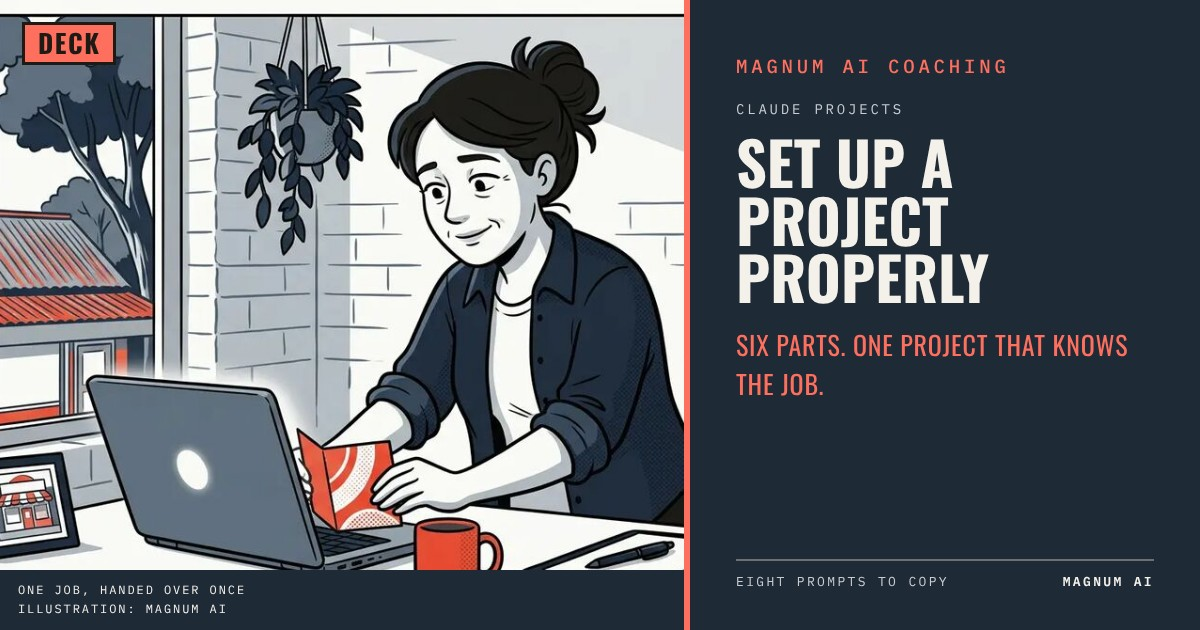
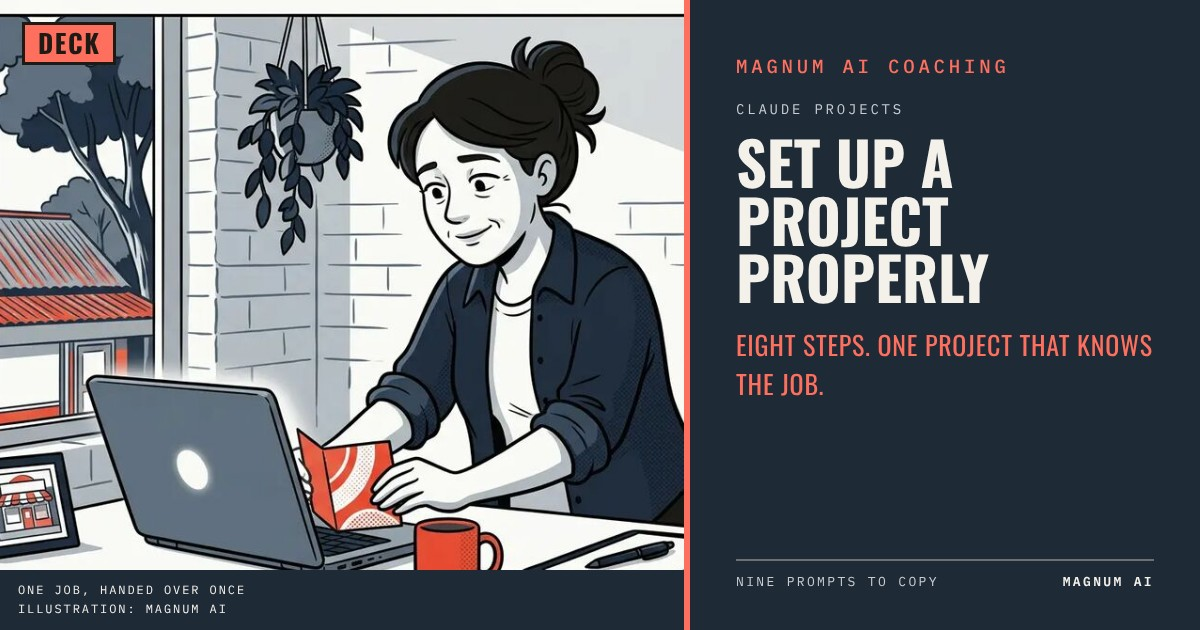
Projects card: eight steps and nine prompts, share image v4
Claude-Session: https://claude.ai/code/session_01Vds57ZRkXdoAAu4KiaFJKY

Changed region(s): [[0.6167, 0.5127, 0.9558, 0.573], [0.6167, 0.9048, 0.7708, 0.9349]]

diff --git a/projects/index.html b/projects/index.html
@@ -15,16 +15,16 @@
 <meta property="og:type" content="article">
 <meta property="og:site_name" content="Magnum AI · Members Area">
 <meta property="og:title" content="Set Up a Project Properly">
-<meta property="og:description" content="A Claude project in six parts, and a prompt for every step. Eight prompts to copy.">
+<meta property="og:description" content="A Claude project in eight steps, and a prompt for every step. Nine prompts to copy.">
 <meta property="og:url" content="https://webes77.github.io/magnum-guides/projects/">
-<meta property="og:image" content="https://webes77.github.io/magnum-guides/assets/thumbnails/projects.jpg?v=3">
+<meta property="og:image" content="https://webes77.github.io/magnum-guides/assets/thumbnails/projects.jpg?v=4">
 <meta property="og:image:width" content="1200">
 <meta property="og:image:height" content="630">
 <meta property="og:image:alt" content="Set Up a Project Properly · a Magnum AI coaching deck">
 <meta name="twitter:card" content="summary_large_image">
 <meta name="twitter:title" content="Set Up a Project Properly">
-<meta name="twitter:description" content="A Claude project in six parts, and a prompt for every step. Eight prompts to copy.">
-<meta name="twitter:image" content="https://webes77.github.io/magnum-guides/assets/thumbnails/projects.jpg?v=3">
+<meta name="twitter:description" content="A Claude project in eight steps, and a prompt for every step. Nine prompts to copy.">
+<meta name="twitter:image" content="https://webes77.github.io/magnum-guides/assets/thumbnails/projects.jpg?v=4">
 <meta name="theme-color" content="#1F2A37">
 <link rel="preconnect" href="https://fonts.googleapis.com">
 <link href="https://fonts.googleapis.com/css2?family=Oswald:wght@400;500;600&family=IBM+Plex+Sans:wght@400;500&family=IBM+Plex+Mono:wght@400;500&display=swap" rel="stylesheet">

diff --git a/projects/thumbnail.html b/projects/thumbnail.html
@@ -51,9 +51,9 @@ h1{font-family:'Oswald','Arial Narrow','Liberation Sans Narrow',sans-serif;font-
     <div class="k">Magnum AI coaching</div>
     <div class="eyebrow">Claude projects</div>
     <h1>Set up a project properly</h1>
-    <div class="kicker">Six parts. One project that knows the job.</div>
+    <div class="kicker">Eight steps. One project that knows the job.</div>
     <div class="foot">
-      <span>Eight prompts to copy</span>
+      <span>Nine prompts to copy</span>
       <b>Magnum AI</b>
     </div>
   </div>

diff --git a/CLAUDE.md b/CLAUDE.md
@@ -3353,7 +3353,9 @@ IP and never goes in this repo. The group's name and logo never ship in this
 repo (hard rule 5). The same co-branded copy is public, for
 the group to keep, on Netlify at `magnum-ai-project-setup.netlify.app`
 (site `c476cbeb-55b7-4bca-adb2-bd134f980dba`, `noindex`); redeploy it from
-the scratchpad build with the deploy-site command whenever the deck moves. A long headline that wraps to two lines
+the scratchpad build with the deploy-site command whenever the deck moves. It carries its own
+share card, `assets/card.jpg` on the Netlify site, the members card with the
+group's logo and "Prepared for" line added, rendered in the scratchpad only. A long headline that wraps to two lines
 pushes a figure slide over at 1440; shorten the headline, not the points.
 
 ## Decisions already made
